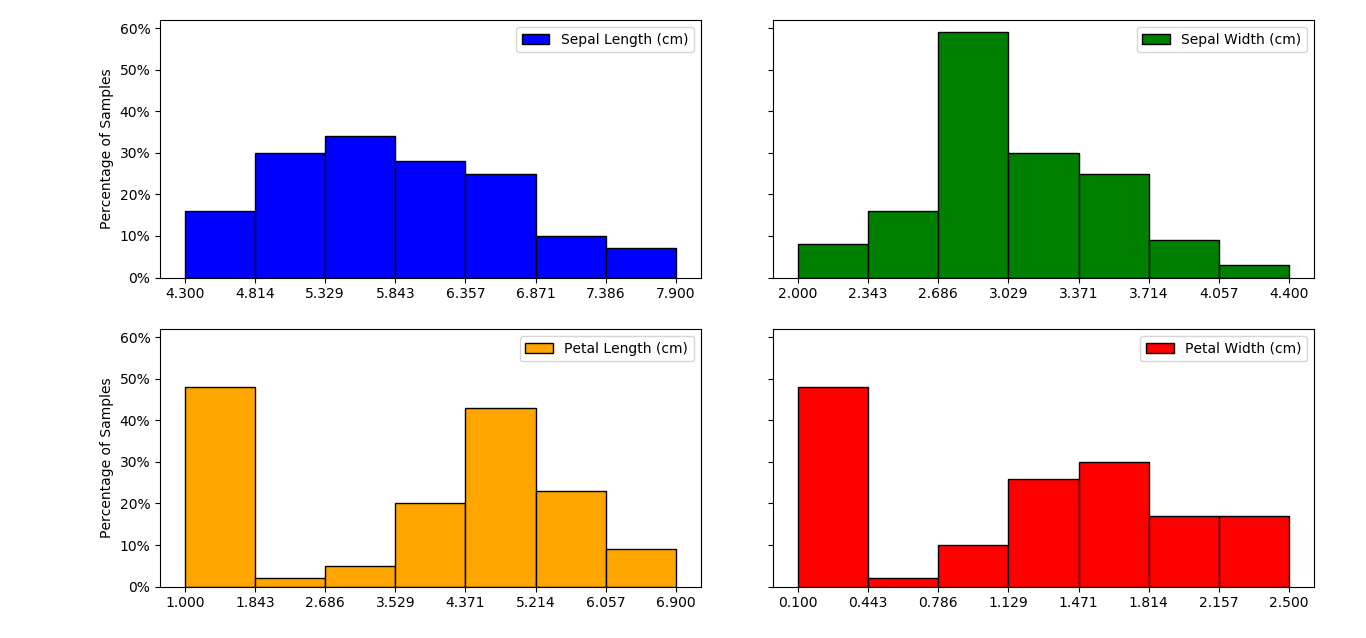
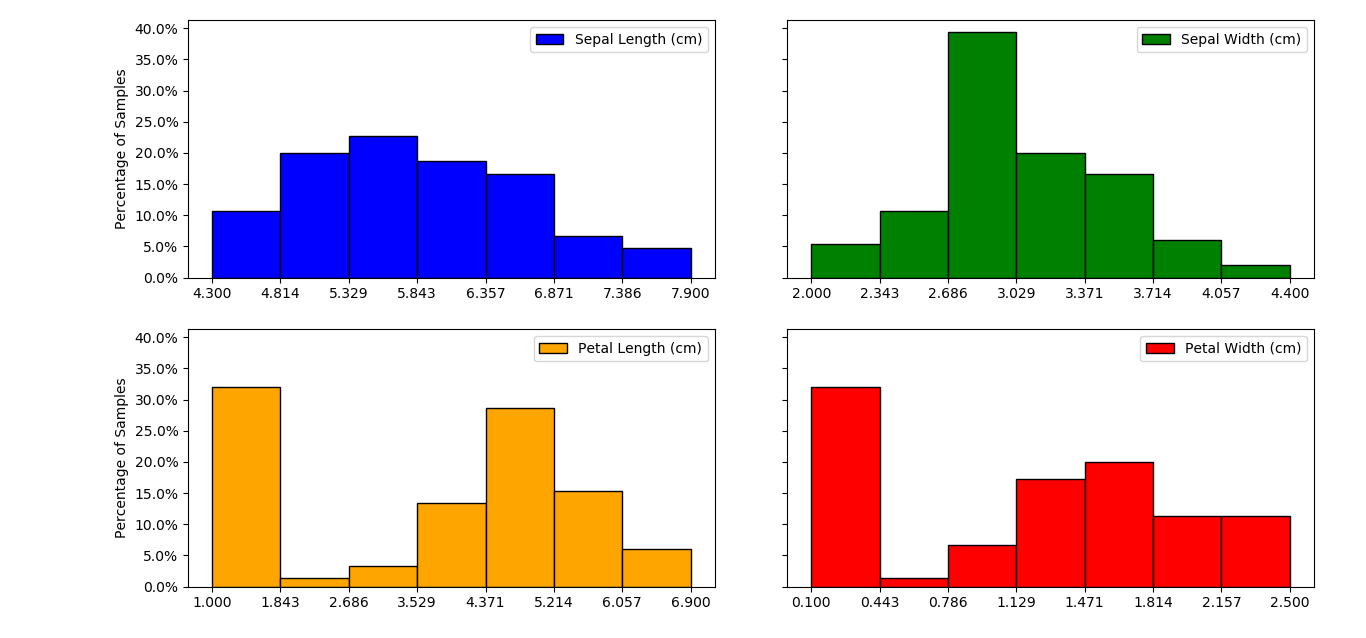
updates to combined histogram plot

diff --git a/Project-Iris/analysis.py b/Project-Iris/analysis.py
@@ -2,7 +2,7 @@
 # Programming & Scripting Project 2020
 # Using datasets downloaded from http://archive.ics.uci.edu/ml/datasets/Iris
 
-from numpy import arange                                                        # from numpy import the arange() function
+import numpy as np                                                              # import numpy as np
 import pandas as pd                                                             # Import pandas as pd 
 import matplotlib.pyplot as plt                                                 # Import matplotliv.pyplot as plt
 import matplotlib.ticker as mtick                                               # Import matplotlib.ticker as mtick
@@ -42,7 +42,7 @@ for n in range(0, 4):
     start = min(df[var])                                                        # the start value of the histogram bins (min value of variable)
     end = max(df[var])                                                          # the end value of the histogram bins (max value of variable)
     step = (end - start) / n_bins                                               # variable values between bins 
-    plt.xticks(arange(start, (end + step) ,step))                               # applying bin values to the xticks of histogram           
+    plt.xticks(np.arange(start, (end + step) ,step))                               # applying bin values to the xticks of histogram           
                                                       
     plt.xlabel(var)                                                             # label x-axis (variable name)
     plt.ylabel("Sample Freq")                                                   # label y-axis (sample frequency)
@@ -57,47 +57,52 @@ for n in range(0, 4):
 
 fig, ((ax1, ax2), (ax3, ax4)) = plt.subplots(2, 2, sharey=True)                 # using subplots to provide 4no histograms on a single figure (2 rows x 2 columns)
                                                                                 # y axis shared between plots (sharey=True)
- 
-ax1.hist(sl, bins=n_bins, facecolor='blue', ec="black",                         # axes 1 - Sepal Length (sl), no of bins, colour of plot, edge colour & label.  
-           label="Sepal Length (cm)")
+ax1.hist(sl, weights=np.ones(len(sl)) / len(sl),                                                                  
+            bins=n_bins, facecolor='blue', ec="black",                          # axes 1 - Sepal Length (sl), no of bins, colour of plot, edge colour & label. 
+            label="Sepal Length (cm)")                                          # weights added to display histogram as percentage.
+
 ax1.set(ylabel="Percentage of Samples")                                         # applying the shared y axis label
 
 start = min(sl)                                                                 # the start value of the histogram bins (min value of variable)
 end = max(sl)                                                                   # the end value of the histogram bins (max value of variable)
 step = (end - start) / n_bins                                                   # variable values between bins  
-ax1.set_xticks(arange(start, (end + step) ,step))                               # applying bin values to the xticks of histogram         
-ax1.yaxis.set_major_formatter(mtick.PercentFormatter())                         # displaying the y-axis values as percentage of samples
-ax1.legend()
+ax1.set_xticks(np.arange(start, (end + step) ,step))                            # applying bin values to the xticks of histogram         
+ax1.yaxis.set_major_formatter(mtick.PercentFormatter(1))                        # displaying the y-axis values as percentage of samples
+ax1.legend()                                          
 
-ax2.hist(sw, bins=n_bins, facecolor='green', ec="black",                        # axes 2 - Sepal Width (sw), no of bins, colour of plot, edge colour & label. 
-            label="Sepal Width (cm)")                                           
+ax2.hist(sw, weights=np.ones(len(sw)) / len(sw),                                # axes 2 - Sepal Width (sw), no of bins, colour of plot, edge colour & label.
+            bins=n_bins, facecolor='green', ec="black",                         # weights added to display histogram as percentage.
+            label="Sepal Width (cm)")
 
 start = min(sw)                                                                 # as per axes 1
 end = max(sw)                                                                   
 step = (end - start) / n_bins                                                   
-ax2.set_xticks(arange(start, (end + step) ,step))                               
-ax2.yaxis.set_major_formatter(mtick.PercentFormatter())                         
+ax2.set_xticks(np.arange(start, (end + step) ,step))                               
+ax2.yaxis.set_major_formatter(mtick.PercentFormatter(1))                         
 ax2.legend()
 
-ax3.hist(pl, bins=n_bins, facecolor='orange', ec="black",                       # axes 3 - Petal Length (pl), no of bins, colour of plot, edge colour & label.
+ax3.hist(pl, weights=np.ones(len(pl)) / len(pl),                                # axes 3 - Petal Length (pl), no of bins, colour of plot, edge colour & label.
+            bins=n_bins, facecolor='orange', ec="black",                        # weights added to display histogram as percentage.
             label="Petal Length (cm)")
+
 ax3.set(ylabel="Percentage of Samples")
 
 start = min(pl)                                                                 # as per axes 1
 end = max(pl)
 step = (end - start) / n_bins
-ax3.set_xticks(arange(start, (end + step) ,step))
-ax3.yaxis.set_major_formatter(mtick.PercentFormatter())
+ax3.set_xticks(np.arange(start, (end + step) ,step))
+ax3.yaxis.set_major_formatter(mtick.PercentFormatter(1))
 ax3.legend()
 
-ax4.hist(pw, bins=n_bins, facecolor='red', ec="black",                          # axes 4 - Petal Width (pw), no of bins, colour of plot, edge colour & label.
+ax4.hist(pw, weights=np.ones(len(pw)) / len(pw),                                # axes 4 - Petal Width (pw), no of bins, colour of plot, edge colour & label.
+            bins=n_bins, facecolor='red', ec="black",                           # weights added to display histogram as percentage.
             label="Petal Width (cm)")
 
 start = min(pw)                                                                 # as per axes 1
 end = max(pw)
 step = (end - start) / n_bins
-ax4.set_xticks(arange(start, (end + step) ,step))
-ax4.yaxis.set_major_formatter(mtick.PercentFormatter())
+ax4.set_xticks(np.arange(start, (end + step) ,step))
+ax4.yaxis.set_major_formatter(mtick.PercentFormatter(1))
 ax4.legend()
 
 plt.tight_layout()                                                              # adjusts subplots so all fit within figure

diff --git a/Project-Iris/scripts/hist_test.py b/Project-Iris/scripts/hist_test.py
@@ -1,5 +1,5 @@
 # plotting histograms using subplots
-
+import numpy as np
 from numpy import arange
 import pandas as pd                                                             
 import matplotlib.pyplot as plt
@@ -15,7 +15,7 @@ n_bins = 7
 fig, ((ax1, ax2), (ax3, ax4)) = plt.subplots(2, 2, sharey=True)
 fig.suptitle("Histograms of Dataset Variables")
 
-ax1.hist(df["sepal_length"], bins=n_bins, facecolor='blue', ec="black", label="Sepal Length (cm)")
+ax1.hist(df["sepal_length"], weights=np.ones(len(df["sepal_length"])) / len(df["sepal_length"]), bins=n_bins, facecolor='blue', ec="black", label="Sepal Length (cm)")
 ax1.set(ylabel="Percentage of Samples")
 
 start = min(df["sepal_length"])
@@ -27,7 +27,7 @@ ax1.legend()
 ax1.yaxis.set_major_formatter(mtick.PercentFormatter())
 
 
-ax2.hist(df["sepal_width"], bins=n_bins, facecolor='green', ec="black", label="Sepal Width (cm)") 
+ax2.hist(df["sepal_width"], weights=np.ones(len(df["sepal_width"])) / len(df["sepal_width"]), bins=n_bins, facecolor='green', ec="black", label="Sepal Width (cm)") 
 
 start = min(df["sepal_width"])
 end = max(df["sepal_width"])
@@ -38,7 +38,7 @@ ax2.legend()
 ax2.yaxis.set_major_formatter(mtick.PercentFormatter())
 
 
-ax3.hist(df["petal_length"], bins=n_bins, facecolor='orange', ec="black", label="Petal Length (cm)")
+ax3.hist(df["petal_length"], weights=np.ones(len(df["petal_length"])) / len(df["petal_length"]), bins=n_bins, facecolor='orange', ec="black", label="Petal Length (cm)")
 ax3.set(ylabel="Percentage of Samples")
 
 start = min(df["petal_length"])
@@ -49,7 +49,7 @@ ax3.set_xticks(arange(start, (end + step) ,step))
 ax3.legend()
 ax3.yaxis.set_major_formatter(mtick.PercentFormatter())
 
-ax4.hist(df["petal_width"], bins=n_bins, facecolor='red', ec="black", label="Petal Width (cm)")
+ax4.hist(df["petal_width"], bins=n_bins, weights=np.ones(len(df["petal_width"])) / len(df["petal_width"]), facecolor='red', ec="black", label="Petal Width (cm)")
 
 start = min(df["petal_width"])
 end = max(df["petal_width"])
@@ -57,10 +57,10 @@ step = (end - start) / n_bins
 ax4.set_xticks(arange(start, (end + step) ,step))
 
 ax4.legend()
-ax4.yaxis.set_major_formatter(mtick.PercentFormatter())
+ax4.yaxis.set_major_formatter(mtick.PercentFormatter(1))
 
 #plt.tight_layout()
-#plt.show()
+plt.show()
 #plt.savefig("add_outputs/histograms_combined",bbox_inches="tight")
 
 
@@ -136,7 +136,7 @@ for n in range(0, 4):
     plt.title("Histogram of " + var)  
                                                                                                                                         
     n = n + 1
-    plt.show()                                                                                 
+    #plt.show()                                                                                 
 
 
 
